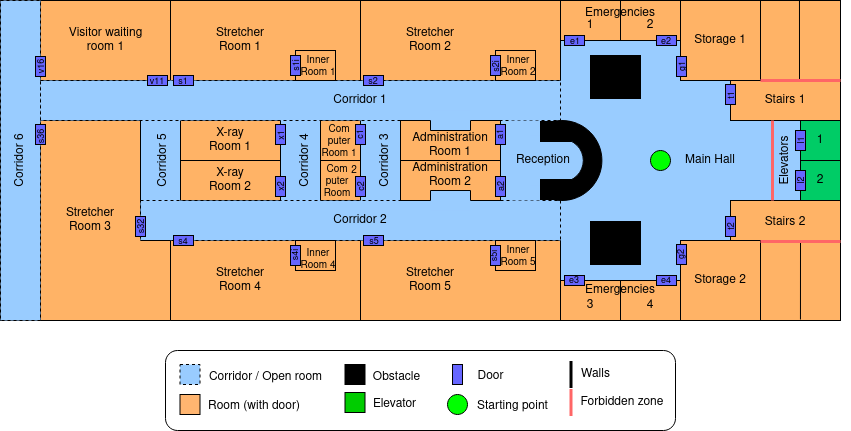
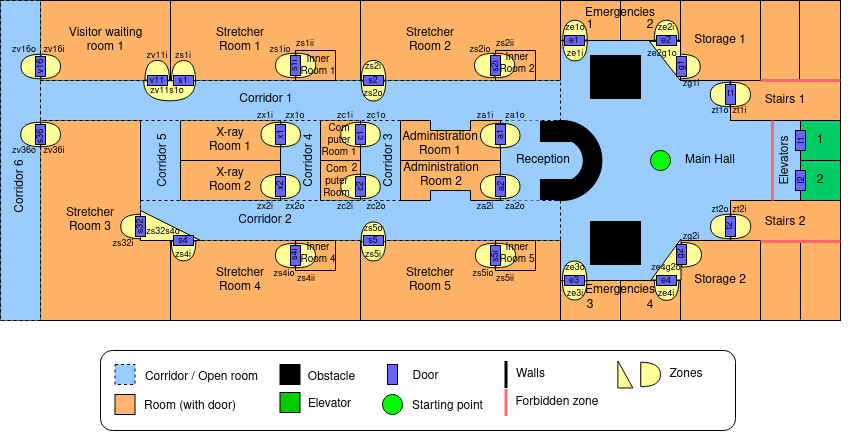
A rescaled and reversed image of the map created by the robot was added to README.md.

diff --git a/README.md b/README.md
@@ -2,10 +2,11 @@
 Repository for planning and move through the [hospital map](https://github.com/aws-robotics/aws-robomaker-hospital-world#readme) using [plansys2](https://intelligentroboticslab.gsyc.urjc.es/ros2_planning_system.github.io/).
 
 ## Map
-Here we can see images of the real map (in gazebo) and the scheme that we will follow to define the problem in pddl format:
+Here we can see images of the gazebo world, the map created by the robot and the scheme that we will follow to define the problem in pddl format:
 
-![hospital world image](imgs/aws_hospital_top_view.png)
-![hospital map scheme image](imgs/hospital_map_scheme.png)
+![gazebo world image](imgs/aws_hospital_top_view.png)
+![robot map image](imgs/reversed_hospital_map.png)
+![scheme map image](imgs/hospital_map_scheme.png)
 
 ## PDDL
 ...
